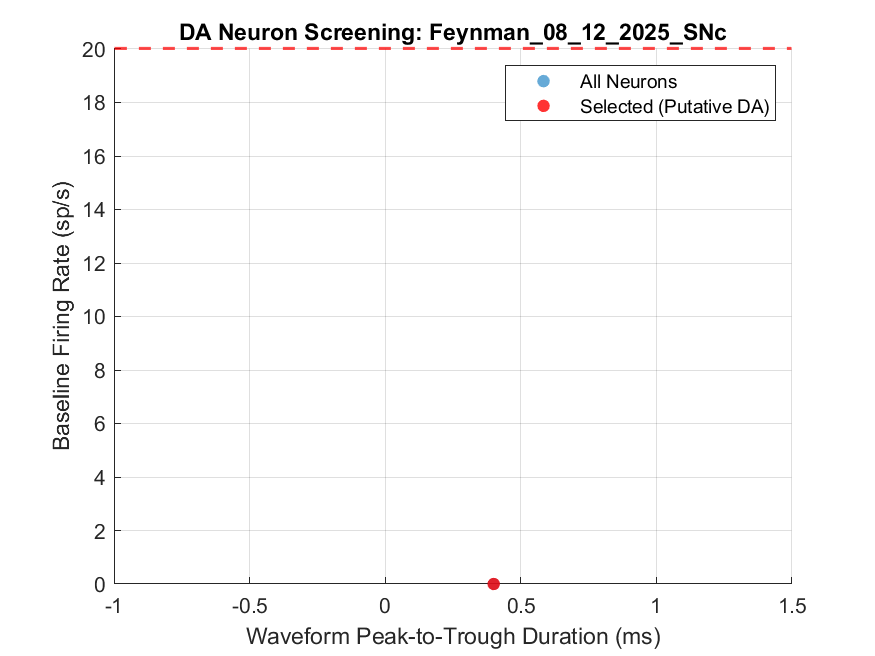
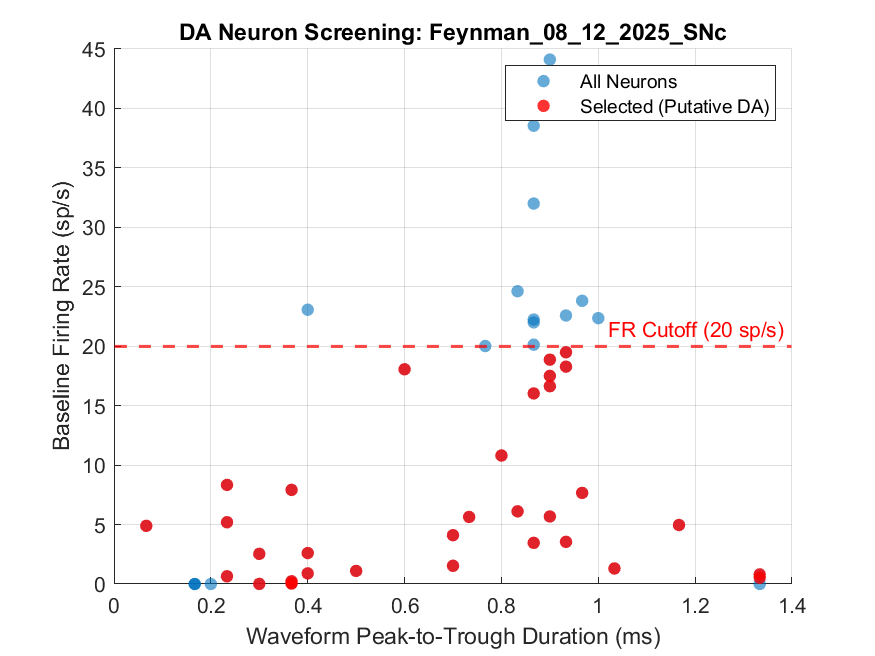
Fixing bugs.

diff --git a/code/utils/calculate_baseline_fr.m b/code/utils/calculate_baseline_fr.m
@@ -24,9 +24,9 @@ function baseline_frs = calculate_baseline_fr(session_data)
 codes = initCodes();
 cluster_info = session_data.spikes.cluster_info;
 cluster_ids = cluster_info.cluster_id;
-nNeurons = height(cluster_info);
+nNeurons = height(cluster_info.cluster_id);
 
-all_spike_times = session_data.spikes.times;
+all_spike_times = session_data.spikes.times/30000;
 all_spike_clusters = session_data.spikes.clusters;
 
 % --- Task-Specific Trial Selection ---
@@ -84,7 +84,7 @@ for i_neuron = 1:nNeurons
         end_time_abs = trial_start_time + baseline_duration;
 
         % Count spikes within this trial's baseline window.
-        spike_count = sum(neuron_spike_times >= start_time_abs & neuron_spike_times < end_time_abs);
+        spike_count = nnz(neuron_spike_times >= start_time_abs & neuron_spike_times < end_time_abs);
 
         total_spike_count_per_neuron(i_neuron) = total_spike_count_per_neuron(i_neuron) + spike_count;
         total_baseline_duration_per_neuron(i_neuron) = total_baseline_duration_per_neuron(i_neuron) + baseline_duration;

diff --git a/code/test_neuron_diagnostics.m b/code/test_neuron_diagnostics.m
@@ -46,11 +46,18 @@ giveFeed('Step 2: Calculating and storing diagnostic metrics...');
 session_data.metrics.baseline_frs = calculate_baseline_fr(session_data);
 
 % Calculate waveform metrics and add to session_data
-nClusters = height(session_data.spikes.cluster_info);
+nClusters = height(session_data.spikes.cluster_info.cluster_id);
 for i_cluster = 1:nClusters
-    % Note: Assuming a sampling rate of 30000 Hz, which is typical for this data
-    session_data.metrics.wf_metrics(i_cluster) = ...
-        calculate_waveform_metrics(session_data.spikes.wfMeans{i_cluster}, 30000);
+
+    % get current unit's multi-channel waveform:
+    mean_waveform = session_data.spikes.wfMeans{i_cluster};
+
+    % find channel with max variance:
+    [~,max_var_chan] = max(var(mean_waveform,[],2));
+
+    % Note: Assuming a sampling rate of 30000 Hz
+    session_data.metrics.wf_metrics(i_cluster, 1) = ...
+        calculate_waveform_metrics(mean_waveform(max_var_chan,:), 30000);
 end
 giveFeed('Diagnostic metrics calculated and stored.');
 

diff --git a/code/screen_da_neurons.m b/code/screen_da_neurons.m
@@ -32,18 +32,12 @@ end
 baseline_frs = session_data.metrics.baseline_frs;
 
 % Retrieve waveform metrics from session_data
-nNeurons = height(session_data.spikes.cluster_info);
-waveform_durations_ms = zeros(nNeurons, 1);
-for i = 1:nNeurons
-    waveform_durations_ms(i) = ...
-        session_data.metrics.wf_metrics(i).peak_trough_ms;
-end
-
+waveform_durations_ms = [session_data.metrics.wf_metrics.peak_trough_ms];
 
 % --- 2. Apply Selection Criteria ---
 
 % Select neurons with a baseline firing rate < 20 sp/s
-selected_neurons = baseline_frs < 20;
+selected_neurons = baseline_frs < 20 & baseline_frs > 0;
 
 fprintf('... found %d putative DA neurons (FR < 20 sp/s).\n', ...
     nnz(selected_neurons));

diff --git a/code/generate_neuron_summary_pdf.m b/code/generate_neuron_summary_pdf.m
@@ -47,7 +47,7 @@ for i_cluster = 1:nClusters
     % --- Panel 1: Mean Waveform ---
     ax1 = mySubPlot([2, 2, 1]);
     if isfield(session_data.spikes, 'wfMeans') && numel(session_data.spikes.wfMeans) >= i_cluster
-        plot(ax1, session_data.spikes.wfMeans{i_cluster});
+        plot(ax1, session_data.spikes.wfMeans{i_cluster}');
         title(ax1, 'Mean Waveform');
         xlabel(ax1, 'Samples');
         ylabel(ax1, 'Amplitude (uV)');
